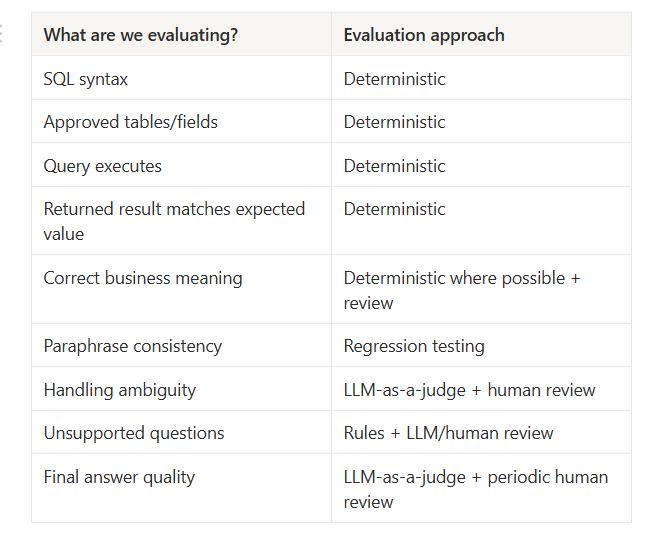
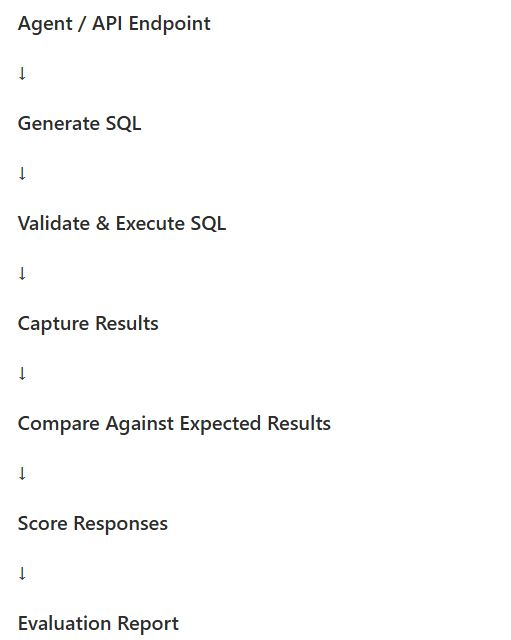
Update4 eval-text-to-sql

diff --git a/_posts/2026-10-02-eval-text-to-sql.md b/_posts/2026-10-02-eval-text-to-sql.md
@@ -170,11 +170,11 @@ Even a system that produces the correct answer once isn't necessarily reliable. 
 
 One person might ask:
 
-* What was revenue yesterday?
+What was revenue yesterday?
 
-* Another: How much did we make yesterday?
+Another: How much did we make yesterday?
 
-* Another: Show me yesterday's sales.
+Another: Show me yesterday's sales.
 
 Depending on the organisation's terminology, those questions may or may not mean exactly the same thing.
 
@@ -229,11 +229,11 @@ The test set can cover different levels of complexity:
 
 For example:
 
-* "What was revenue yesterday?"
-* "Which category had the highest revenue growth last month?"
-* "Which brands declined compared with the same period last year?"
-* "Which high-selling SKUs are currently low in inventory?"
-* "How are sales looking?"
+"What was revenue yesterday?"
+"Which category had the highest revenue growth last month?"
+"Which brands declined compared with the same period last year?"
+"Which high-selling SKUs are currently low in inventory?"
+"How are sales looking?"
 
 These questions test different parts of the agent.
 
